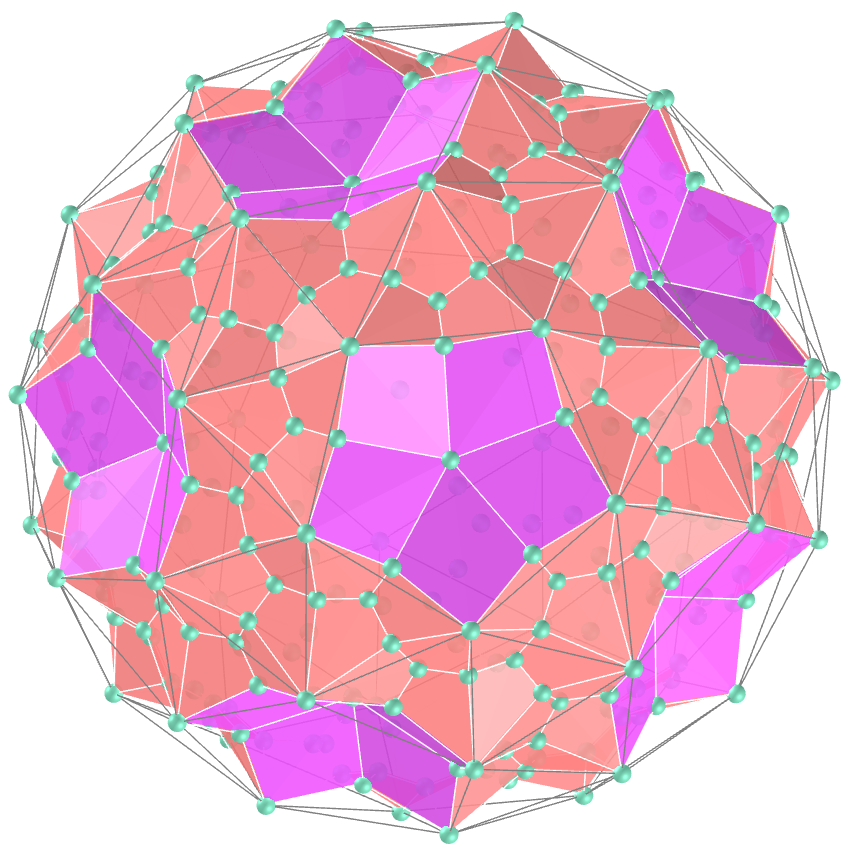
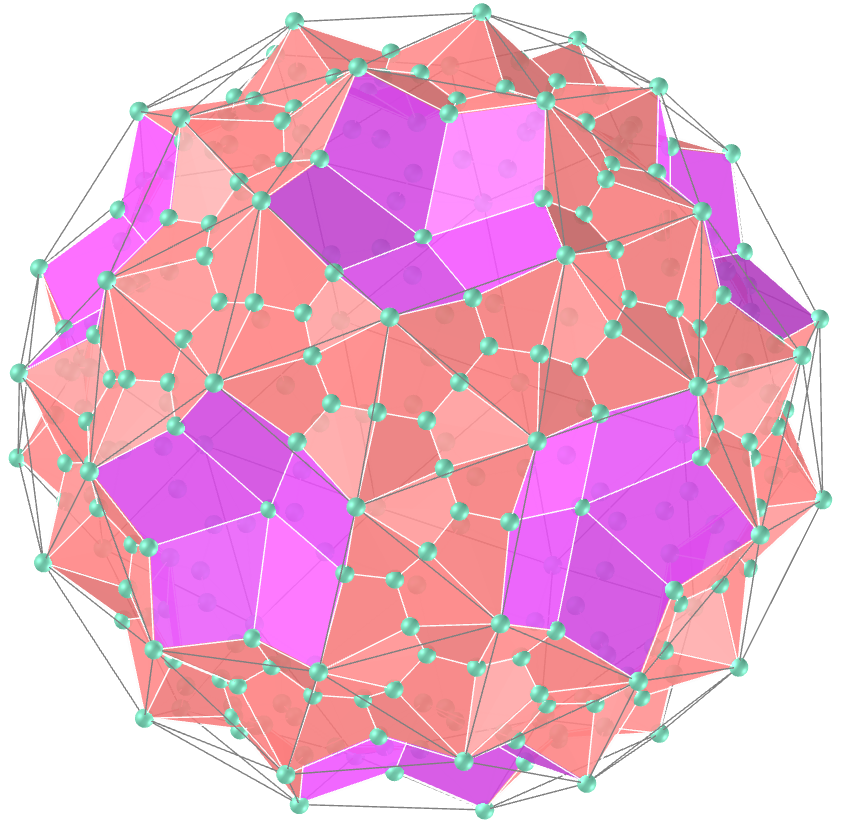
update

diff --git a/kites/vr/Truncated_Cube.htm b/kites/vr/Truncated_Cube.htm
@@ -60,11 +60,11 @@
 			<a-sphere mixin='esfera' position='0.967097915 0.683841458 -0.683841458'></a-sphere>
 			<a-sphere mixin='esfera' position='0.967097915 0.967097915 0'></a-sphere>
 			<a-sphere mixin='esfera' position='0.967097915 0.683841458 0.683841458'></a-sphere>
-			<a-sphere mixin='esfera' position='0.448923093 0 0'></a-sphere>
+			<a-sphere mixin='esfera' position='0.4479656631 0 0'></a-sphere>
 			<a-sphere mixin='esfera' position='0.967097915 0.683841458 0.683841458'></a-sphere>
 			<a-sphere mixin='esfera' position='0.683841458 0.967097915 0.683841458'></a-sphere>
 			<a-sphere mixin='esfera' position='0.683841458 0.683841458 0.967097915'></a-sphere>
-			<a-sphere mixin='esfera' position='0.734284788 0.734284788 0.734284788'></a-sphere>
+			<a-sphere mixin='esfera' position='0.7298858744 0.7298858744 0.7298858744'></a-sphere>
 			<a-sphere mixin='esfera' position='0.683841458 0.683841458 0.967097915'></a-sphere>
 			<a-sphere mixin='esfera' position='0 0.967097915 0.967097915'></a-sphere>
 			<a-sphere mixin='esfera' position='-0.683841458 0.683841458 0.967097915'></a-sphere>
@@ -73,7 +73,7 @@
 			<a-sphere mixin='esfera' position='0 -0.967097915 0.967097915'></a-sphere>
 			<a-sphere mixin='esfera' position='0.683841458 -0.683841458 0.967097915'></a-sphere>
 			<a-sphere mixin='esfera' position='0.967097915 0 0.967097915'></a-sphere>
-			<a-sphere mixin='esfera' position='0 0 0.448923093'></a-sphere>
+			<a-sphere mixin='esfera' position='0 0 0.4479656631'></a-sphere>
 			<a-sphere mixin='esfera' position='-0.967097915 0.967097915 0'></a-sphere>
 			<a-sphere mixin='esfera' position='-0.967097915 0.683841458 -0.683841458'></a-sphere>
 			<a-sphere mixin='esfera' position='-0.967097915 0 -0.967097915'></a-sphere>
@@ -82,7 +82,7 @@
 			<a-sphere mixin='esfera' position='-0.967097915 -0.683841458 0.683841458'></a-sphere>
 			<a-sphere mixin='esfera' position='-0.967097915 0 0.967097915'></a-sphere>
 			<a-sphere mixin='esfera' position='-0.967097915 0.683841458 0.683841458'></a-sphere>
-			<a-sphere mixin='esfera' position='-0.448923093 0 0'></a-sphere>
+			<a-sphere mixin='esfera' position='-0.4479656631 0 0'></a-sphere>
 			<a-sphere mixin='esfera' position='-0.683841458 0.967097915 0.683841458'></a-sphere>
 			<a-sphere mixin='esfera' position='0 0.967097915 0.967097915'></a-sphere>
 			<a-sphere mixin='esfera' position='0.683841458 0.967097915 0.683841458'></a-sphere>
@@ -91,7 +91,7 @@
 			<a-sphere mixin='esfera' position='0 0.967097915 -0.967097915'></a-sphere>
 			<a-sphere mixin='esfera' position='-0.683841458 0.967097915 -0.683841458'></a-sphere>
 			<a-sphere mixin='esfera' position='-0.967097915 0.967097915 0'></a-sphere>
-			<a-sphere mixin='esfera' position='0 0.448923093 0'></a-sphere>
+			<a-sphere mixin='esfera' position='0 0.4479656631 0'></a-sphere>
 			<a-sphere mixin='esfera' position='0 -0.967097915 -0.967097915'></a-sphere>
 			<a-sphere mixin='esfera' position='-0.683841458 -0.683841458 -0.967097915'></a-sphere>
 			<a-sphere mixin='esfera' position='-0.967097915 0 -0.967097915'></a-sphere>
@@ -100,7 +100,7 @@
 			<a-sphere mixin='esfera' position='0.683841458 0.683841458 -0.967097915'></a-sphere>
 			<a-sphere mixin='esfera' position='0.967097915 0 -0.967097915'></a-sphere>
 			<a-sphere mixin='esfera' position='0.683841458 -0.683841458 -0.967097915'></a-sphere>
-			<a-sphere mixin='esfera' position='0 0 -0.448923093'></a-sphere>
+			<a-sphere mixin='esfera' position='0 0 -0.4479656631'></a-sphere>
 			<a-sphere mixin='esfera' position='0.683841458 -0.967097915 -0.683841458'></a-sphere>
 			<a-sphere mixin='esfera' position='0.967097915 -0.967097915 0'></a-sphere>
 			<a-sphere mixin='esfera' position='0.683841458 -0.967097915 0.683841458'></a-sphere>
@@ -109,35 +109,35 @@
 			<a-sphere mixin='esfera' position='-0.967097915 -0.967097915 0'></a-sphere>
 			<a-sphere mixin='esfera' position='-0.683841458 -0.967097915 -0.683841458'></a-sphere>
 			<a-sphere mixin='esfera' position='0 -0.967097915 -0.967097915'></a-sphere>
-			<a-sphere mixin='esfera' position='0 -0.448923093 0'></a-sphere>
+			<a-sphere mixin='esfera' position='0 -0.4479656631 0'></a-sphere>
 			<a-sphere mixin='esfera' position='0.683841458 0.683841458 -0.967097915'></a-sphere>
 			<a-sphere mixin='esfera' position='0.683841458 0.967097915 -0.683841458'></a-sphere>
 			<a-sphere mixin='esfera' position='0.967097915 0.683841458 -0.683841458'></a-sphere>
-			<a-sphere mixin='esfera' position='0.734284788 0.734284788 -0.734284788'></a-sphere>
+			<a-sphere mixin='esfera' position='0.7298858744 0.7298858744 -0.7298858744'></a-sphere>
 			<a-sphere mixin='esfera' position='0.683841458 -0.683841458 0.967097915'></a-sphere>
 			<a-sphere mixin='esfera' position='0.683841458 -0.967097915 0.683841458'></a-sphere>
 			<a-sphere mixin='esfera' position='0.967097915 -0.683841458 0.683841458'></a-sphere>
-			<a-sphere mixin='esfera' position='0.734284788 -0.734284788 0.734284788'></a-sphere>
+			<a-sphere mixin='esfera' position='0.7298858744 -0.7298858744 0.7298858744'></a-sphere>
 			<a-sphere mixin='esfera' position='0.967097915 -0.683841458 -0.683841458'></a-sphere>
 			<a-sphere mixin='esfera' position='0.683841458 -0.967097915 -0.683841458'></a-sphere>
 			<a-sphere mixin='esfera' position='0.683841458 -0.683841458 -0.967097915'></a-sphere>
-			<a-sphere mixin='esfera' position='0.734284788 -0.734284788 -0.734284788'></a-sphere>
+			<a-sphere mixin='esfera' position='0.7298858744 -0.7298858744 -0.7298858744'></a-sphere>
 			<a-sphere mixin='esfera' position='-0.683841458 0.683841458 0.967097915'></a-sphere>
 			<a-sphere mixin='esfera' position='-0.683841458 0.967097915 0.683841458'></a-sphere>
 			<a-sphere mixin='esfera' position='-0.967097915 0.683841458 0.683841458'></a-sphere>
-			<a-sphere mixin='esfera' position='-0.734284788 0.734284788 0.734284788'></a-sphere>
+			<a-sphere mixin='esfera' position='-0.7298858744 0.7298858744 0.7298858744'></a-sphere>
 			<a-sphere mixin='esfera' position='-0.967097915 0.683841458 -0.683841458'></a-sphere>
 			<a-sphere mixin='esfera' position='-0.683841458 0.967097915 -0.683841458'></a-sphere>
 			<a-sphere mixin='esfera' position='-0.683841458 0.683841458 -0.967097915'></a-sphere>
-			<a-sphere mixin='esfera' position='-0.734284788 0.734284788 -0.734284788'></a-sphere>
+			<a-sphere mixin='esfera' position='-0.7298858744 0.7298858744 -0.7298858744'></a-sphere>
 			<a-sphere mixin='esfera' position='-0.967097915 -0.683841458 0.683841458'></a-sphere>
 			<a-sphere mixin='esfera' position='-0.683841458 -0.967097915 0.683841458'></a-sphere>
 			<a-sphere mixin='esfera' position='-0.683841458 -0.683841458 0.967097915'></a-sphere>
-			<a-sphere mixin='esfera' position='-0.734284788 -0.734284788 0.734284788'></a-sphere>
+			<a-sphere mixin='esfera' position='-0.7298858744 -0.7298858744 0.7298858744'></a-sphere>
 			<a-sphere mixin='esfera' position='-0.683841458 -0.683841458 -0.967097915'></a-sphere>
 			<a-sphere mixin='esfera' position='-0.683841458 -0.967097915 -0.683841458'></a-sphere>
 			<a-sphere mixin='esfera' position='-0.967097915 -0.683841458 -0.683841458'></a-sphere>
-			<a-sphere mixin='esfera' position='-0.734284788 -0.734284788 -0.734284788'></a-sphere>
+			<a-sphere mixin='esfera' position='-0.7298858744 -0.7298858744 -0.7298858744'></a-sphere>
 		</a-entity>
 		
 		<a-box mixin="piso" class="piso" visible="false" position="0 -1.5 0"></a-box>
